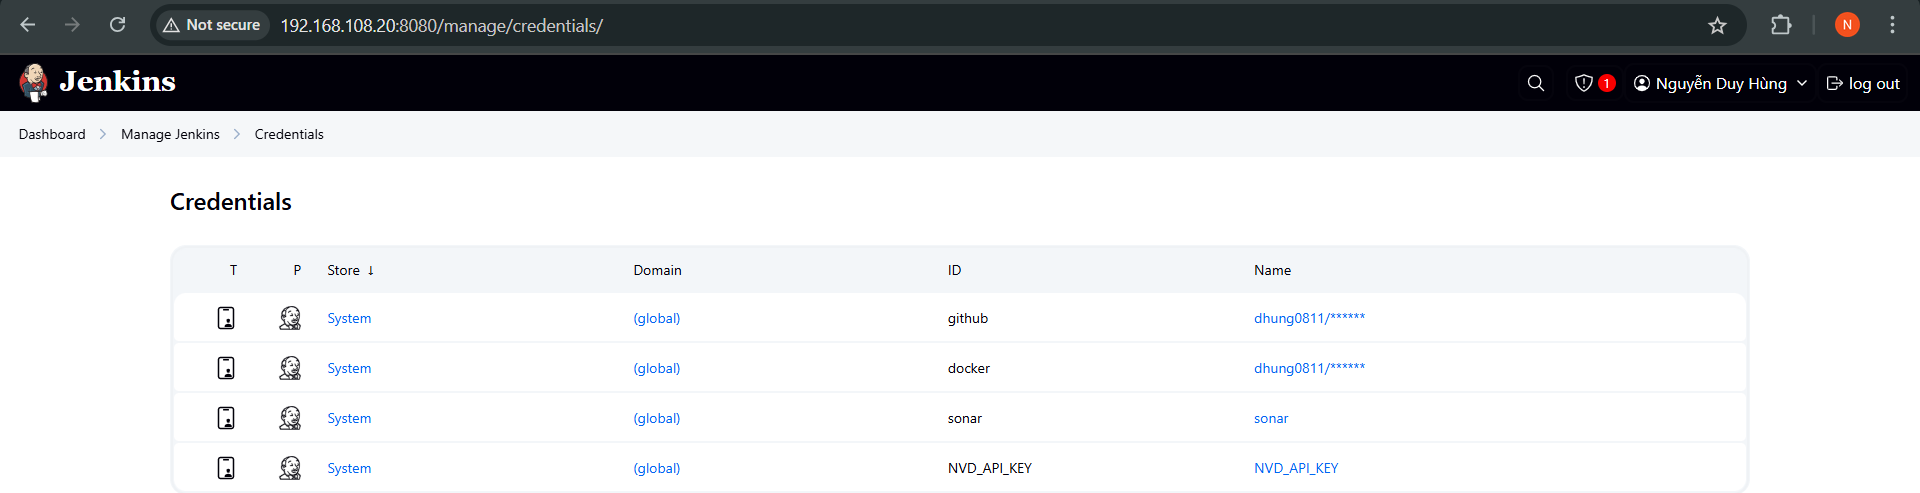
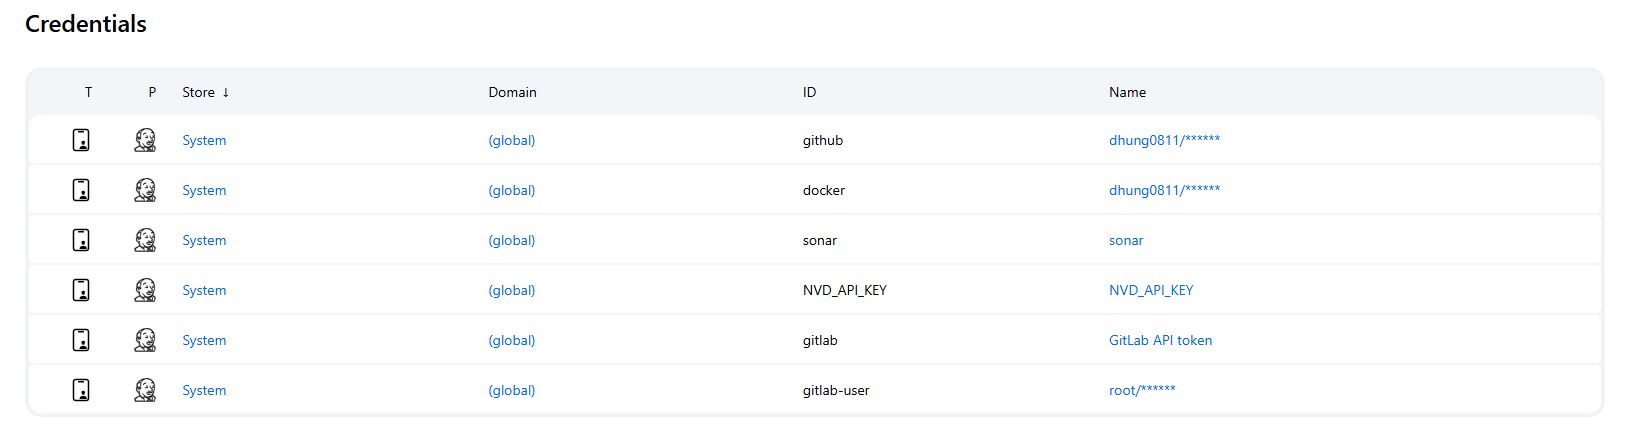
doc: rewrite README

diff --git a/README.md b/README.md
@@ -1,8 +1,10 @@
-# Sample Microservice Application
+# CI/CD Pipeline for Stan's Robot Shop
+
+This repository contains the source code from [Stan's Robot Shop](https://github.com/instana/robot-shop), a sample microservice application. The application is designed to demonstrate various technologies and practices in building and deploying microservices, including containerization, orchestration, and monitoring, based on the original [robot-shop](https://github.com/instana/robot-shop), you can get more information from the [Instana blog post](https://www.instana.com/blog/stans-robot-shop-sample-microservice-application/).
+
+The repository is used to build and deploy the application using a CI/CD pipeline. The pipeline automates the process of building, testing, and deploying the application to various environments, ensuring that changes can be delivered quickly and reliably.
 
 Stan's Robot Shop is a sample microservice application you can use as a sandbox to test and learn containerised application orchestration and monitoring techniques. It is not intended to be a comprehensive reference example of how to write a microservices application, although you will better understand some of those concepts by playing with Stan's Robot Shop. To be clear, the error handling is patchy and there is not any security built into the application.
-
-You can get more detailed information from my [blog post](https://www.instana.com/blog/stans-robot-shop-sample-microservice-application/) about this sample microservice application.
 
 This sample microservice application has been built using these technologies:
 - NodeJS ([Express](http://expressjs.com/))
@@ -17,112 +19,103 @@ This sample microservice application has been built using these technologies:
 - Nginx
 - AngularJS (1.x)
 
-The various services in the sample application already include all required Instana components installed and configured. The Instana components provide automatic instrumentation for complete end to end [tracing](https://docs.instana.io/core_concepts/tracing/), as well as complete visibility into time series metrics for all the technologies.
+The tools integrated into the CI/CD pipeline include:
+- [Docker](https://www.docker.com/)
+- [Docker Compose](https://docs.docker.com/compose/)
+- [Jenkins](https://www.jenkins.io/)
+- [Gitlab](https://about.gitlab.com/)
+- [sonarQube](https://www.sonarqube.org/)
+- [trivy](https://aquasecurity.github.io/trivy/)
 
-To see the application performance results in the Instana dashboard, you will first need an Instana account. Don't worry a [trial account](https://instana.com/trial?utm_source=github&utm_medium=robot_shop) is free.
 
-## Build from Source
-To optionally build from source (you will need a newish version of Docker to do this) use Docker Compose. Optionally edit the `.env` file to specify an alternative image registry and version tag; see the official [documentation](https://docs.docker.com/compose/env-file/) for more information.
+## Workflow
+The CI/CD pipeline is designed to automate the build, test, and deployment processes for Stan's Robot Shop. The workflow includes the following steps:
+![workflow](/img/workflow.png)
 
-To download the tracing module for Nginx, it needs a valid Instana agent key. Set this in the environment before starting the build.
+# Steps
+## Create Jenkins Server
+Create and setup a Jenkins server to manage the CI/CD pipeline. Install the necessary plugins for Docker, Git, and any other tools required for the pipeline.
 
-```shell
-$ export INSTANA_AGENT_KEY="<your agent key>"
-```
+Create a api token in Jenkins for authentication. This token will be used to trigger the pipeline from Gitlab.
+ - Go to `Manage Jenkins` > `Manage Users` > `Security` > `API Token` and create a new token.
+![jenkinsAPIToken](/img/jenkinsAPIToken.png)
 
-Now build all the images.
+## Create and configure Gitlab Server
+Create and setup a Gitlab server to host the source code repository for Stan's Robot Shop.
+![createdGitlab](/img/createdGitlab.png)
+Create a new project in Gitlab and push the source code to the repository. Configure the Gitlab CI/CD pipeline to trigger builds and tests on code changes.
+![repo](/img/repo.png)
+Go to the repository settings and create a webhook in Gitlab to trigger the Jenkins pipeline on code changes. In the URL field, enter the value with syntax `http://<username>:<token>@<IPofJenkins>:8080/job/<jobName>`.
 
-```shell
-$ docker-compose build
-```
 
-If you modified the `.env` file and changed the image registry, you need to push the images to that registry
+The token is the API token created in Jenkins, and the job name is the name of the Jenkins job that will be triggered.
+![webhook](/img/createWebhookFromGitlab.png)
 
-```shell
-$ docker-compose push
-```
+Also, create a personal access token in Gitlab to allow Jenkins to access the repository. Go to `Settings` > `Access Tokens` and create a new token with the required scopes.
+![createToken](/img/createToken.png)
 
-## Run Locally
-You can run it locally for testing.
+Enable outbound requests from Gitlab to Jenkins. This is necessary for the webhook to work correctly. Go to `Settings` > `General` and enable the `Outbound requests` option.
+![allowOutboundRequests](/img/allowOutboundRequest.png)
 
-If you did not build from source, don't worry all the images are on Docker Hub. Just pull down those images first using:
 
-```shell
-$ docker-compose pull
-```
+## Create and configure SonarQube Server
+Create and setup a SonarQube server to analyze the code quality of Stan's Robot Shop.
+![createdSonarQube](/img/createdSonarQube.png)
+Create new token in SonarQube for authentication. This token will be used to trigger the SonarQube analysis from Jenkins.
+ - Go to `My Account` > `Security` > `Generate Tokens` and create a new token.
+![sonarToken](/img/sonarToken.png)
 
-Fire up Stan's Robot Shop with:
+Create a webhook in SonarQube to run in the Jenkins pipeline on code changes. In the URL field, enter the URL of the Jenkins server.
 
-```shell
-$ docker-compose up
-```
+![CreateWebhook](/img/createWebhook.png)
 
-If you want to fire up some load as well:
+## Configure Jenkins Server
+Go to `Manage Jenkins` > `Configure System` and configure the following:
+- **Gitlab**: Add the Gitlab server URL and the API token created in the previous step.
+![addGitlab](/img/addGitlab.png)
+- **SonarQube**: Add the SonarQube server URL and the token created in the previous step.
+![sonarServer](/img/sonarServer.png)
 
-```shell
-$ docker-compose -f docker-compose.yaml -f docker-compose-load.yaml up
-```
+Go to `Manage Jenkins` > `Credentials` and add the following credentials:
+![crednetials](/img/credentials.png)
+- **gitlab**: Add the Gitlab personal access token created in the previous step.
+- **sonar**: Add the SonarQube token created in the previous step.
+- **docker**: Add the Docker Hub credentials to push the images to the Docker Hub repository.
+- **gitlab-user**: Add the Gitlab username to access the repository.
+- **NVD-API-KEY**: Add the NVD API key to access the NVD database for vulnerability scanning.
 
-If you are running it locally on a Linux host you can also run the Instana [agent](https://docs.instana.io/quick_start/agent_setup/container/docker/) locally, unfortunately the agent is currently not supported on Mac.
 
-There is also only limited support on ARM architectures at the moment.
+Connect the Jenkins agent to the Jenkins server. This can be done by installing the Jenkins agent on the machine where the pipeline will run and connecting it to the Jenkins server.
+![connectAgent](/img/connectAgent.png)
+![createdAgent](/img/createdAgent.png)
 
-## Marathon / DCOS
 
-The manifests for robotshop are in the *DCOS/* directory. These manifests were built using a fresh install of DCOS 1.11.0. They should work on a vanilla HA or single instance install.
 
-You may install Instana via the DCOS package manager, instructions are here: https://github.com/dcos/examples/tree/master/instana-agent/1.9
+## Create Jenkins Pipeline
+Create a new Jenkins pipeline job to build, test, and deploy Stan's Robot Shop.
+Go to `New Item` > `Pipeline` and enter a name for the job. Configure the pipeline to be triggered by the Gitlab webhook created in the previous step.
+![configPipeline](/img/configPipelineToBeTrigger.png)
+In the pipeline section, select `Pipeline script from SCM` and choose `Git`. Enter the Gitlab repository URL and the branch to build.
 
-## Kubernetes
-You can run Kubernetes locally using [minikube](https://github.com/kubernetes/minikube) or on one of the many cloud providers.
+![configurePipeline](/img/configPipeline.png)
 
-The Docker container images are all available on [Docker Hub](https://hub.docker.com/u/robotshop/).
+Go back to repository settings in Gitlab > `webhooks` and test the webhook to ensure it is working correctly. The webhook should trigger the Jenkins pipeline and start the build process.
+![testTrigger](/img/testTrigger.png)
 
-Install Stan's Robot Shop to your Kubernetes cluster using the [Helm](K8s/helm/README.md) chart.
+Save the pipeline configuration and run the pipeline to test the setup. The pipeline should trigger on code changes and run the build, test, and deployment steps.
+![donePipeline](/img/donePipeline.png)
 
-To deploy the Instana agent to Kubernetes, just use the [helm](https://github.com/instana/helm-charts) chart.
+See the analysis results in SonarQube.
+![sonarqubeResults](/img/sonarqubeResult.png)
 
-## Accessing the Store
-If you are running the store locally via *docker-compose up* then, the store front is available on localhost port 8080 [http://localhost:8080](http://localhost:8080/)
+The trivy scan results can be seen in the Jenkins console output.
+![trivyScan](/img/trivyScan.png)
 
-If you are running the store on Kubernetes via minikube then, find the IP address of Minikube and the Node Port of the web service.
+The images are pushed to the Docker Hub repository.
+![imagesPushed](/img/imagesPushed.png)
 
-```shell
-$ minikube ip
-$ kubectl get svc web
-```
+We can access to the application using the IP address of the Jenkins agent and the port 8080.
+![deploySuccessfully](/img/deploySuccessfully.png)
 
-If you are using a cloud Kubernetes / Openshift / Mesosphere then it will be available on the load balancer of that system.
 
-## Load Generation
-A separate load generation utility is provided in the `load-gen` directory. This is not automatically run when the application is started. The load generator is built with Python and [Locust](https://locust.io). The `build.sh` script builds the Docker image, optionally taking *push* as the first argument to also push the image to the registry. The registry and tag settings are loaded from the `.env` file in the parent directory. The script `load-gen.sh` runs the image, it takes a number of command line arguments. You could run the container inside an orchestration system (K8s) as well if you want to, an example descriptor is provided in K8s directory. For End-user Monitoring ,load is not automatically generated but by navigating through the Robotshop from the browser .For more details see the [README](load-gen/README.md) in the load-gen directory.  
-
-## Website Monitoring / End-User Monitoring
-
-### Docker Compose
-
-To enable Website Monioring / End-User Monitoring (EUM) see the official [documentation](https://docs.instana.io/website_monitoring/) for how to create a configuration. There is no need to inject the JavaScript fragment into the page, this will be handled automatically. Just make a note of the unique key and set the environment variable `INSTANA_EUM_KEY` and `INSTANA_EUM_REPORTING_URL` for the web image within `docker-compose.yaml`.
-
-### Kubernetes
-
-The Helm chart for installing Stan's Robot Shop supports setting the key and endpoint url required for website monitoring, see the [README](K8s/helm/README.md).
-
-## Prometheus
-
-The cart and payment services both have Prometheus metric endpoints. These are accessible on `/metrics`. The cart service provides:
-
-* Counter of the number of items added to the cart
-
-The payment services provides:
-
-* Counter of the number of items perchased
-* Histogram of the total number of items in each cart
-* Histogram of the total value of each cart
-
-To test the metrics use:
-
-```shell
-$ curl http://<host>:8080/api/cart/metrics
-$ curl http://<host>:8080/api/payment/metrics
-```
 
